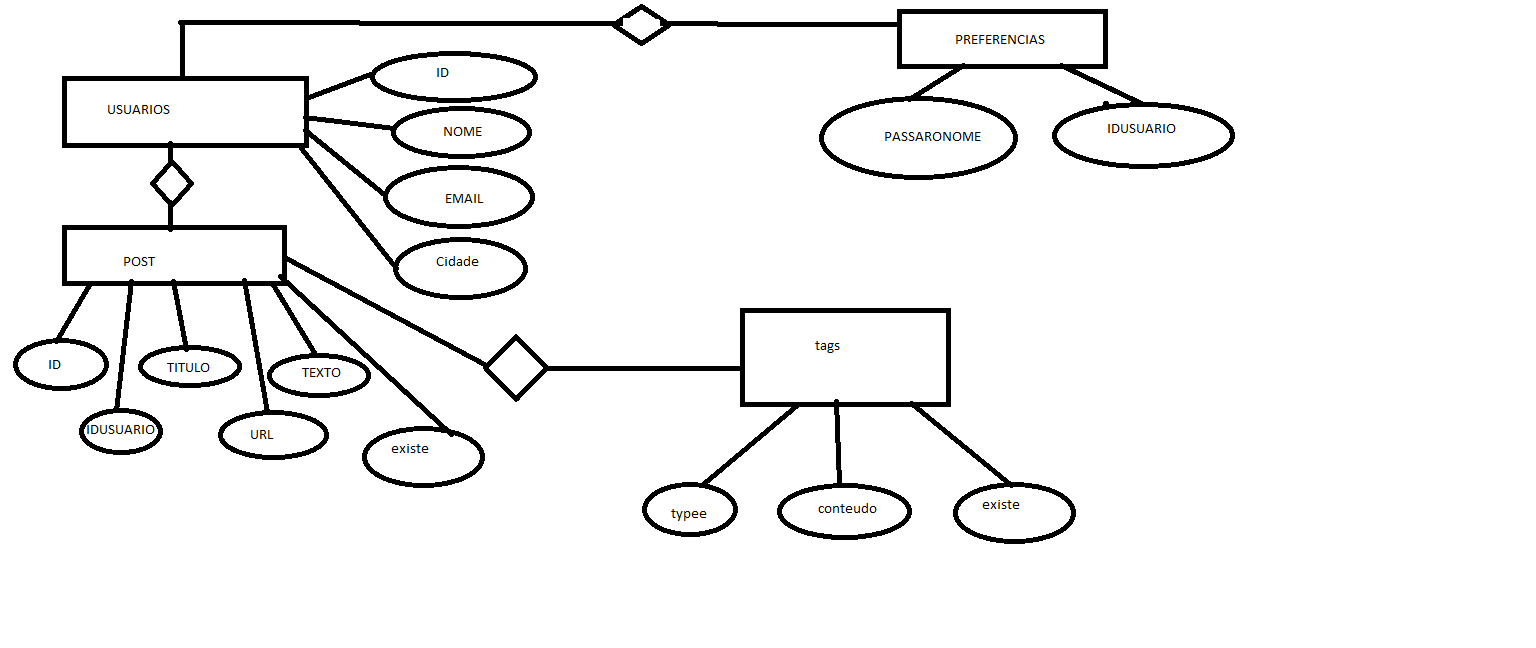
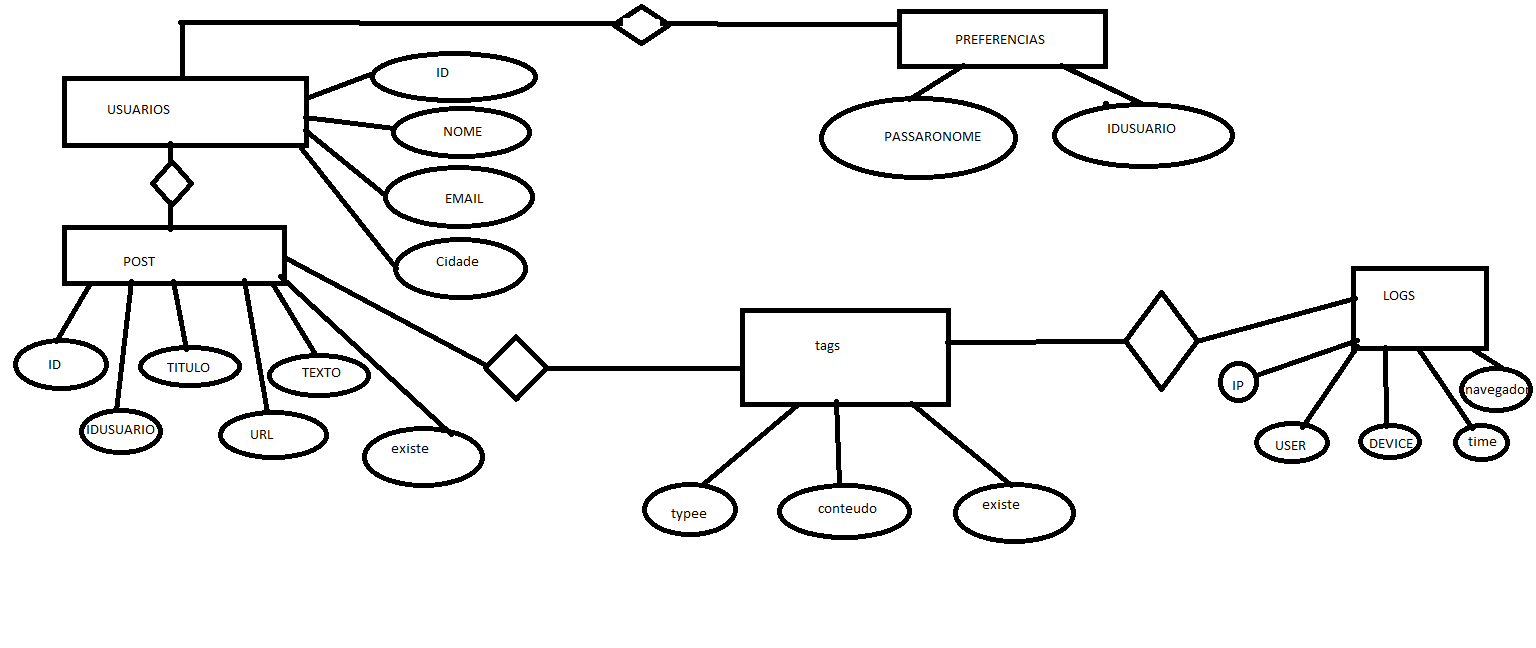
Pos meia noite (#1)
* fix bug, but need to add initial users externally

* update diagrams, TODO: fix need to add user first

* update README, cleanup repo, add gitignore

Changed region(s): [[0.625, 0.4012, 1.0, 0.7099]]

diff --git a/test_projeto.py b/test_projeto.py
@@ -115,18 +115,19 @@ class TestProjeto(unittest.TestCase):
 
 
 
-    # def testa_log(self):
-    #     conn = self.__class__.connection
+    def testa_log(self):
+        conn = self.__class__.connection
 
-    #     adiciona_usuario(conn, "brun9o", "meuemail@eu.com", "SSP-")
-    #     adiciona_usuario(conn, "brun9o", "meuema123123il@eu.com", "SSP-")
-    #     adiciona_log_info(conn, "1.1.1.1", "firefox", "motorola", 1)
-    #     if len(select_logs(conn))<1:
-    #         self.fail('Falhou ao adicionar uma pessoa.')
+        adiciona_usuario(conn, "brun9o", "meuemail@eu.com", "SSP-")
+        adiciona_usuario(conn, "brun9o", "meuema123123il@eu.com", "SSP-")
+        print(len(select_usuarios(conn)))
+        adiciona_log_info(conn, "1.1.1.1", "firefox", "motorola", 1)
+        if len(select_logs(conn))<1:
+            self.fail('Falhou ao adicionar uma pessoa.')
 
-    #     adiciona_log_info(conn, "1.1.1.1", "chrome", "motorola", 1)
-    #     if len(select_logs(conn))<2:
-    #         self.fail('Falhou ao adicionar duas pessoas.')
+        adiciona_log_info(conn, "1.1.1.1", "chrome", "motorola", 1)
+        if len(select_logs(conn))<2:
+            self.fail('Falhou ao adicionar duas pessoas.')
 
 
   
@@ -155,9 +156,25 @@ def tearDownModule():
 
 if __name__ == '__main__':
     global config
+
+
+
+
     
     with open('config_tests.json', 'r') as f:
         config = json.load(f)
+
+    connn = pymysql.connect(
+        host=config['HOST'],
+        user=config['USER'],
+        password=config['PASS'],
+        database='md'
+    )
+
+    # adiciona_usuario(connn, "brunasawawdawawddawdd9o", "meueaaddwdmail@eu.com", "SSP-") script so esta funcionando se adiciona 2 usuarios fora
+    # adiciona_usuario(connn, "brunasaawdawwdaawdwdd9o", "meueaadawddwdmail@eu.com", "SSaP-")
+
     setUpModule()
+
     logging.basicConfig(filename=config['LOGFILE'], level=logging.DEBUG)
     unittest.main(verbosity=2)

diff --git a/README.md b/README.md
@@ -1,6 +1,6 @@
 ### SCHEMA
 
-```
+```sql
 #DROP DATABASE IF EXISTS MD;
 
 #CREATE DATABASE MD;
